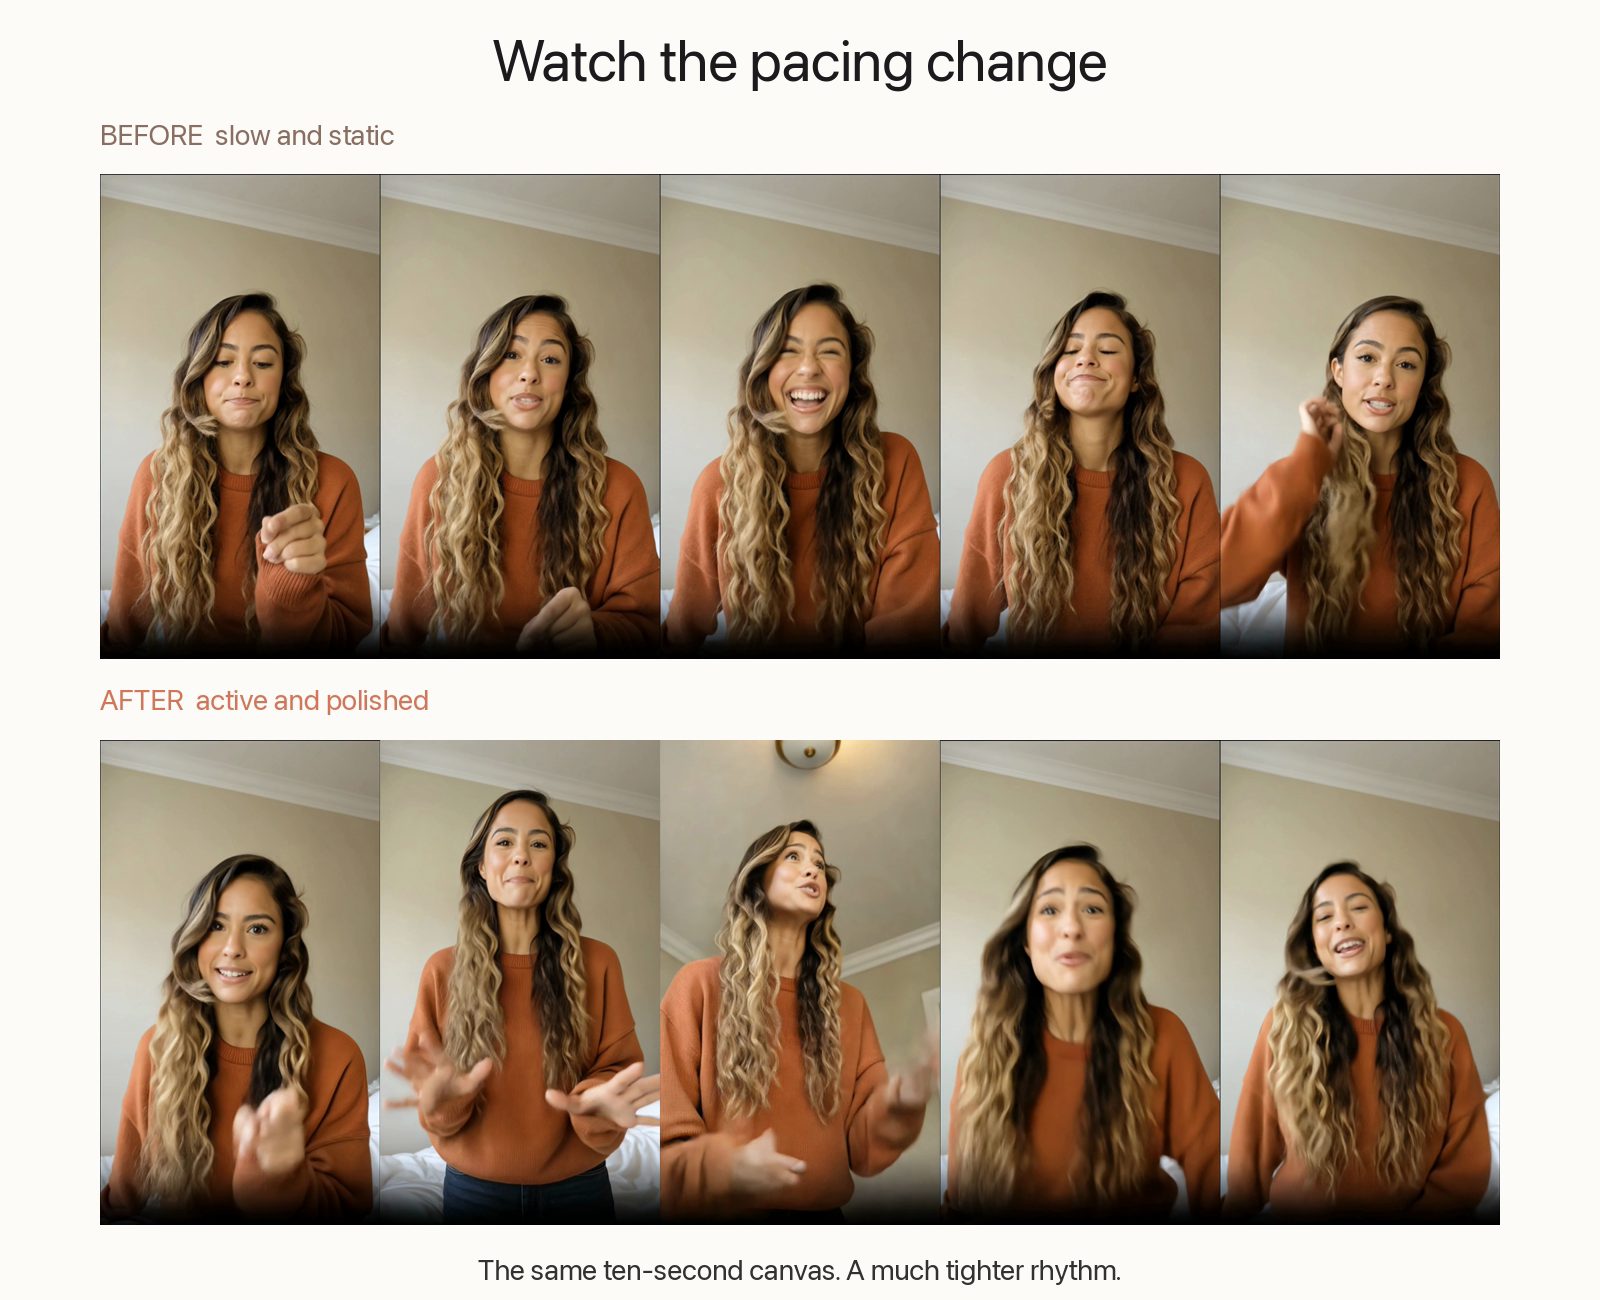
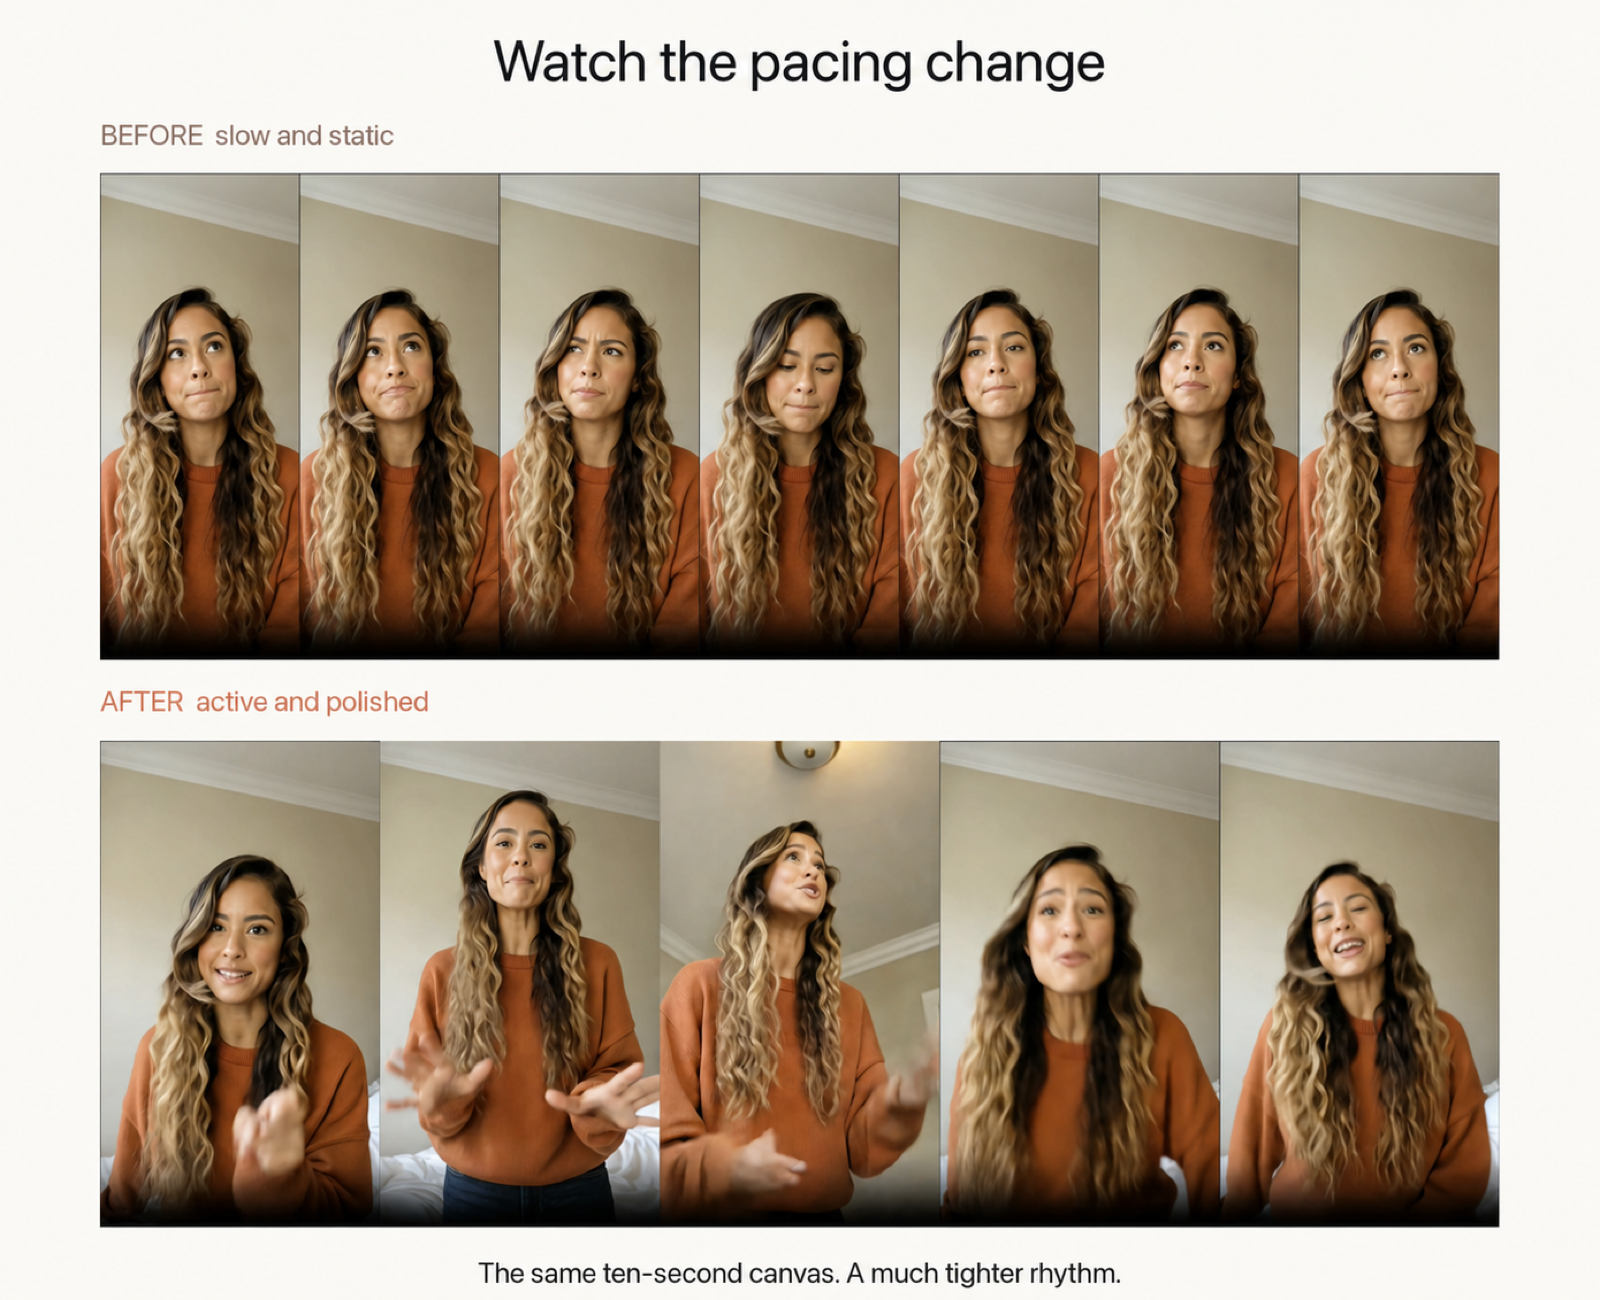
refine video clipping pacing preview

diff --git a/docs/VIDEO_CLIPPING_SUBMISSION.md b/docs/VIDEO_CLIPPING_SUBMISSION.md
@@ -1,6 +1,6 @@
 # Yaps Video Clipping submission
 
-Use `dist/yaps-video-clipping-plugin-0.1.1.zip` in the OpenAI Platform plugin submission portal. Submit it as a skills-only plugin; Yaps desktop 2.3.848 or newer supplies the credential-free account handoff, local CLI, speech detector, saved Auto Cut projects, FFmpeg/ffprobe tools, and renderer.
+Use `dist/yaps-video-clipping-plugin-0.1.2.zip` in the OpenAI Platform plugin submission portal. Submit it as a skills-only plugin; Yaps desktop 2.3.848 or newer supplies the credential-free account handoff, local CLI, speech detector, saved Auto Cut projects, FFmpeg/ffprobe tools, and renderer.
 
 ## Listing
 
@@ -23,7 +23,7 @@ Tighten talking-head videos with Yaps desktop by detecting speech, removing dead
 The Codex plugin manifest accepts PNG screenshots, not an embedded MP4 preview. Two listing-ready graphics derived from the representative before/after clips are included and referenced through `interface.screenshots`:
 
 - `plugins/yaps-video-clipping/assets/preview-before-after.png` presents the core before/after transformation.
-- `plugins/yaps-video-clipping/assets/preview-pacing-sequence.png` shows the change from slow, static pacing to a more active, polished sequence.
+- `plugins/yaps-video-clipping/assets/preview-pacing-sequence.png` contrasts seven clear thinking-pause expressions with a more active, polished sequence.
 
 Both source clips are ten seconds long, so the listing copy describes tighter rhythm and pacing rather than claiming a shorter output. The full clips can also be hosted on the attributed Yaps landing page if a playable comparison is wanted.
 
